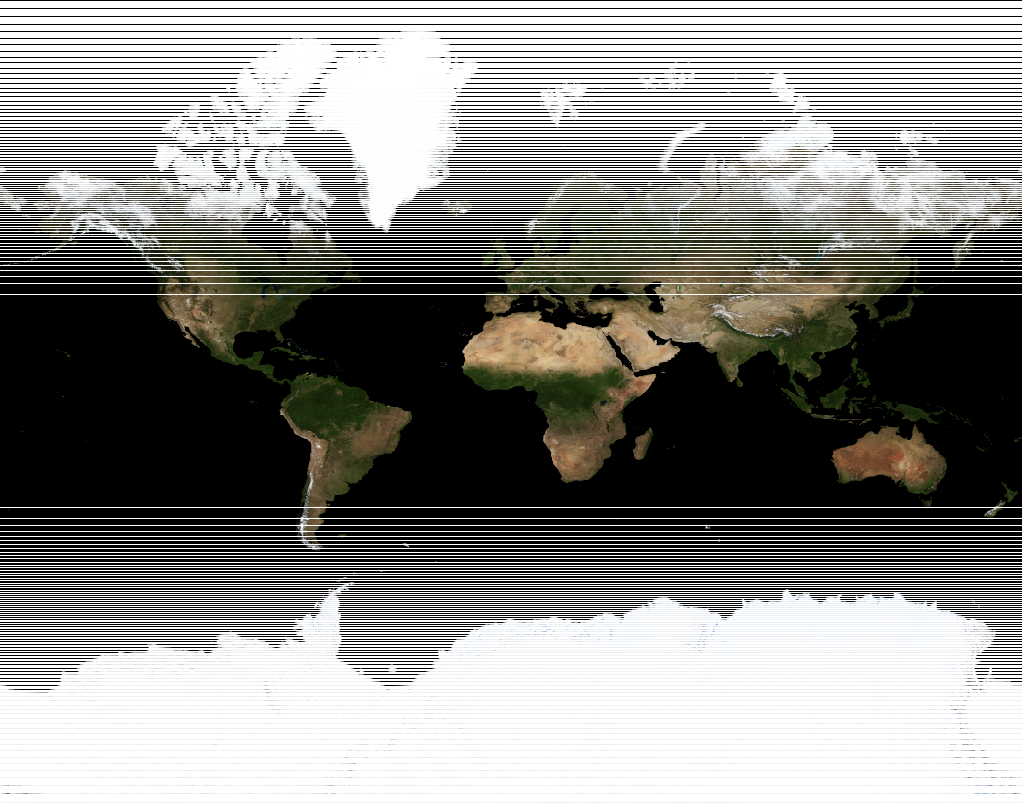
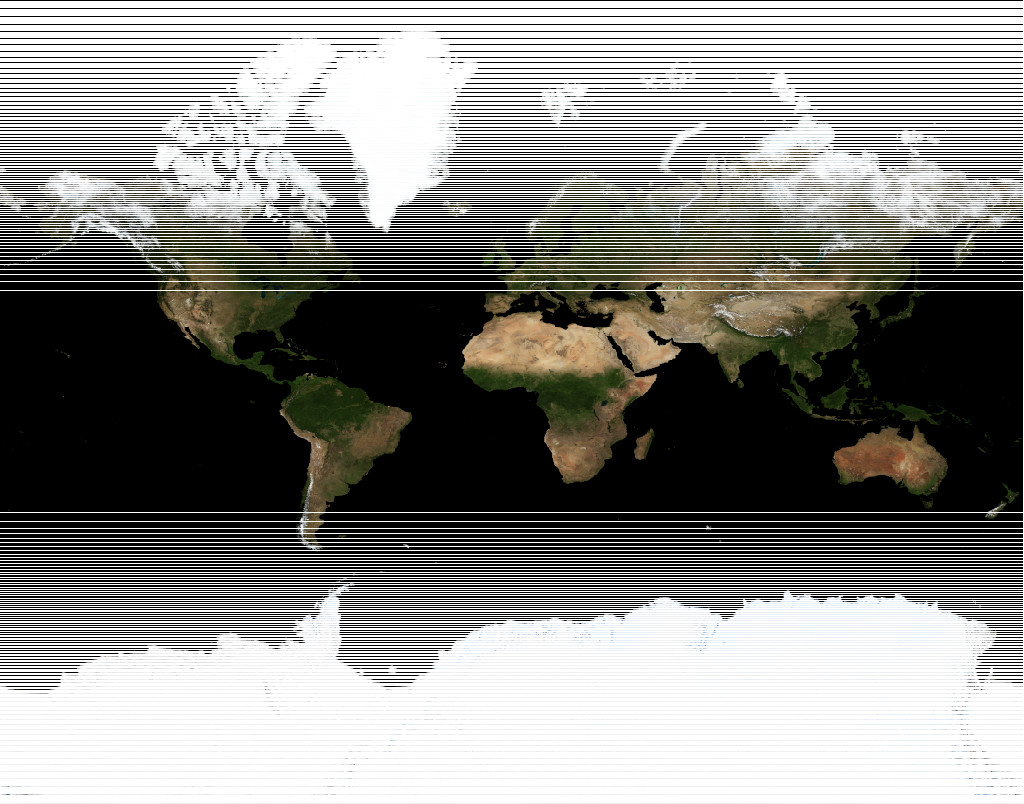
v2

diff --git a/converter.py b/converter.py
@@ -4,28 +4,69 @@ from PIL import Image
 from pathlib import Path
 import math
 
+def remap(value, oldMin, oldMax, newMin, newMax):
+    return ((value - oldMin) / (oldMax - oldMin)) * (newMax - newMin) + newMin
+
 def clamp(value, minValue, maxValue):
     return min(max(value, minValue), maxValue)
 
-def equi_to_merc(u: float, v: float):
+maxLon = 2 * math.atan(math.pow(math.e, math.pi)) - math.pi * 0.5
+
+def equi_to_merc(u, v):
     # uv to equirectangular
-    lat: float = u * 2 * math.pi    # from 0 to 2PI
-    lon: float = (v - 0.5) * math.pi  # from -PI to PI
+    lat = remap(u, 0, 1, 0, 2 * math.pi)
+    lon = remap(v, 0, 1, -math.pi * 0.5, math.pi * 0.5)
 
     # equirectangular to mercator
-    x: float = lat
-    maxLon = 2 * math.atan(math.pow(math.e, math.pi)) - math.pi * 0.5
+    x = lat
     lon = clamp(lon, -maxLon, maxLon)
     tan = math.tan(math.pi / 4 + lon / 2)
-    # print(lat, lon, tan)
-    y: float = math.log(tan)
+    y = math.log(tan)
 
-    # bring x,y into [0,1] range
-    x = clamp(x / (2 * math.pi), 0, 1)
-    y = clamp((y + math.pi) / (2 * math.pi), 0, 1)
+    # mercator to uv
+    x = remap(x, 0, 2 * math.pi, 0, 1)
+    y = remap(y, -math.pi, math.pi, 0, 1)
+
+    # clamp
+    x = clamp(x, 0, 1)
+    y = clamp(y, 0, 1)
 
     return (x, y)
 
+def merc_to_equi(u, v):
+    # uv to mercator
+    lat = remap(u, 0, 1, 0, 2 * math.pi)
+    lon = remap(v, 0, 1, -math.pi, math.pi)
+
+    # equirectangular to mercator
+    x = lat
+    y = math.pow(math.e, lon)
+    y = math.atan(y)
+    y = y * 2 - math.pi / 2
+    # lon = clamp(lon, -maxLon, maxLon)
+    # tan = math.tan(math.pi / 4 + lon / 2)
+    # y = math.log(tan)
+
+    # equirectangular to uv
+    x = remap(x, 0, 2 * math.pi, 0, 1)
+    y = remap(y, -math.pi * 0.5, math.pi * 0.5, 0, 1)
+
+    # clamp
+    x = clamp(x, 0, 1)
+    y = clamp(y, 0, 1)
+
+    return (x, y)
+
+def progressBar(iteration, total, decimals = 1, length = 50):
+    # Call in a loop to create terminal progress bar
+    percent = ("{0:." + str(decimals) + "f}").format(100 * (iteration / float(total)))
+    filledLength = int(length * iteration // total)
+    bar = '█' * filledLength + ' ' * (length - filledLength)
+    print(f'\rProgress:  {bar} {percent}%', end = "")
+
+    # Print New Line on Complete
+    if iteration == total: 
+        print()
 
 # if len(sys.argv) == 1:
 #     print("No image parameter supplied. Exiting.")
@@ -42,16 +83,30 @@ newImage = Image.new(image.mode, (image.width, int(image.height * math.pi * 0.5)
 pixels = image.load()
 newPixels = newImage.load()
 
-for x in range(image.width):
-    for y in range(image.height):
-        (mercX, mercY) = equi_to_merc(x / image.width, y / image.height)
-        newX = mercX * (newImage.width - 2)
-        newY = mercY * (newImage.height - 2)
-        newPixels[newX, newY] = pixels[x, y]
-        # print(mercX, mercY)
+# total = image.width * image.height
+# progress = 0
+# for x in range(image.width):
+#     for y in range(image.height):
+#         (mercX, mercY) = equi_to_merc(x / image.width, y / image.height)
+#         newX = mercX * (newImage.width - 1)
+#         newY = mercY * (newImage.height - 1)
+#         newPixels[newX, newY] = pixels[x, y]
+#         progress += 1
+#     progressBar(progress, total)
+
+total = newImage.width * newImage.height
+progress = 0
+for x in range(newImage.width):
+    for y in range(newImage.height):
+        (equiX, equiY) = merc_to_equi(x / newImage.width, y / newImage.height)
+        sampleX = equiX * (image.width - 1)
+        sampleY = equiY * (image.height - 1)
+        newPixels[x, y] = pixels[sampleX, sampleY]
+        progress += 1
+    progressBar(progress, total)
 
 split = str(path).split(".")
-split[-2] += "_processed"
+split[-2] += "_processed2"
 newPath = '.'.join(split)
 newImage.save(newPath)
 
